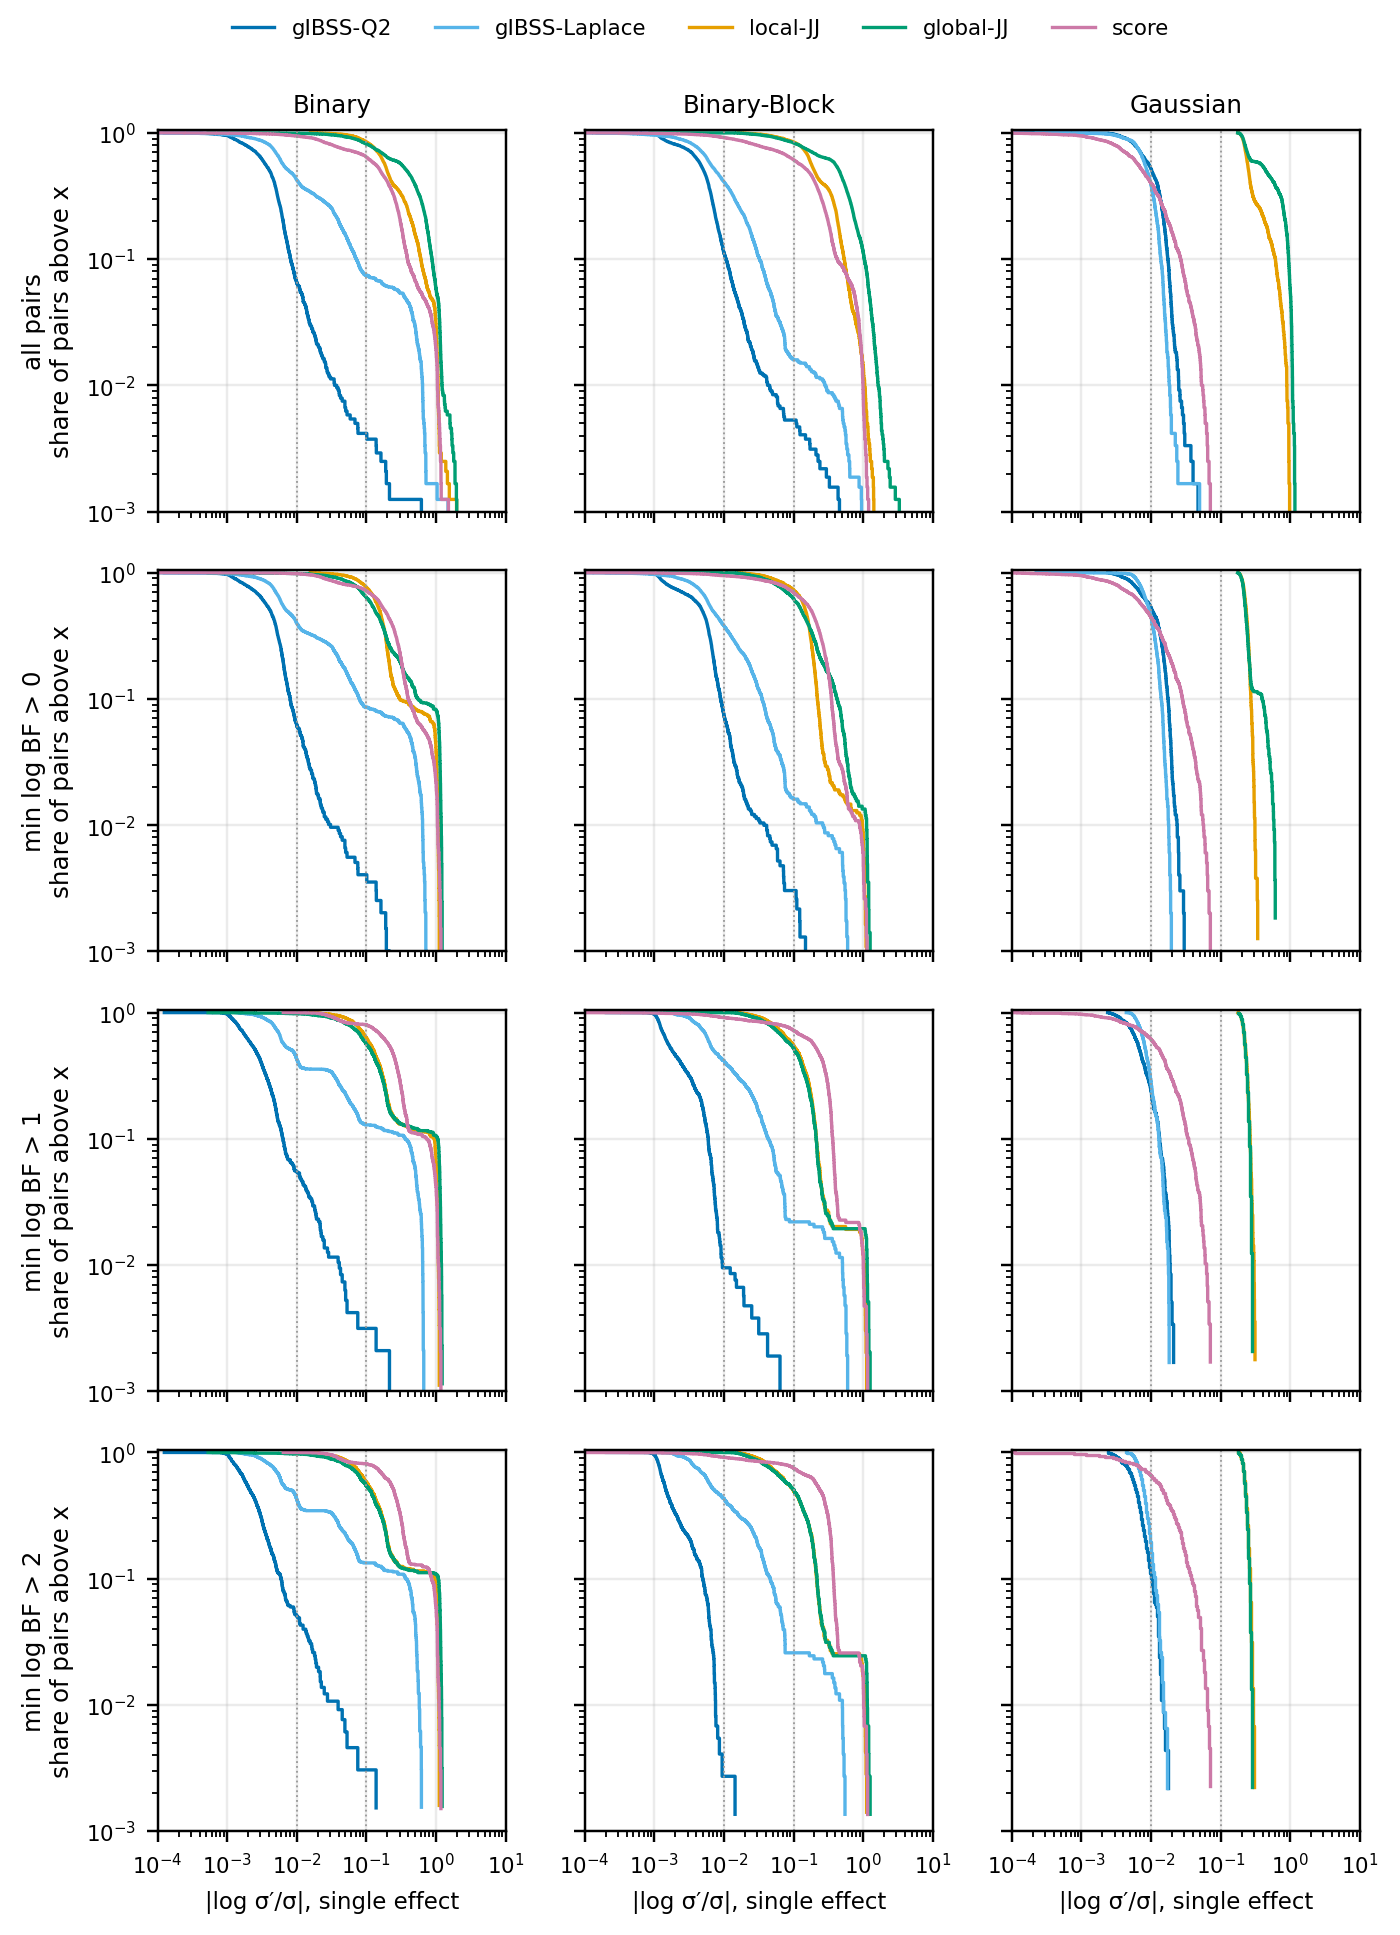
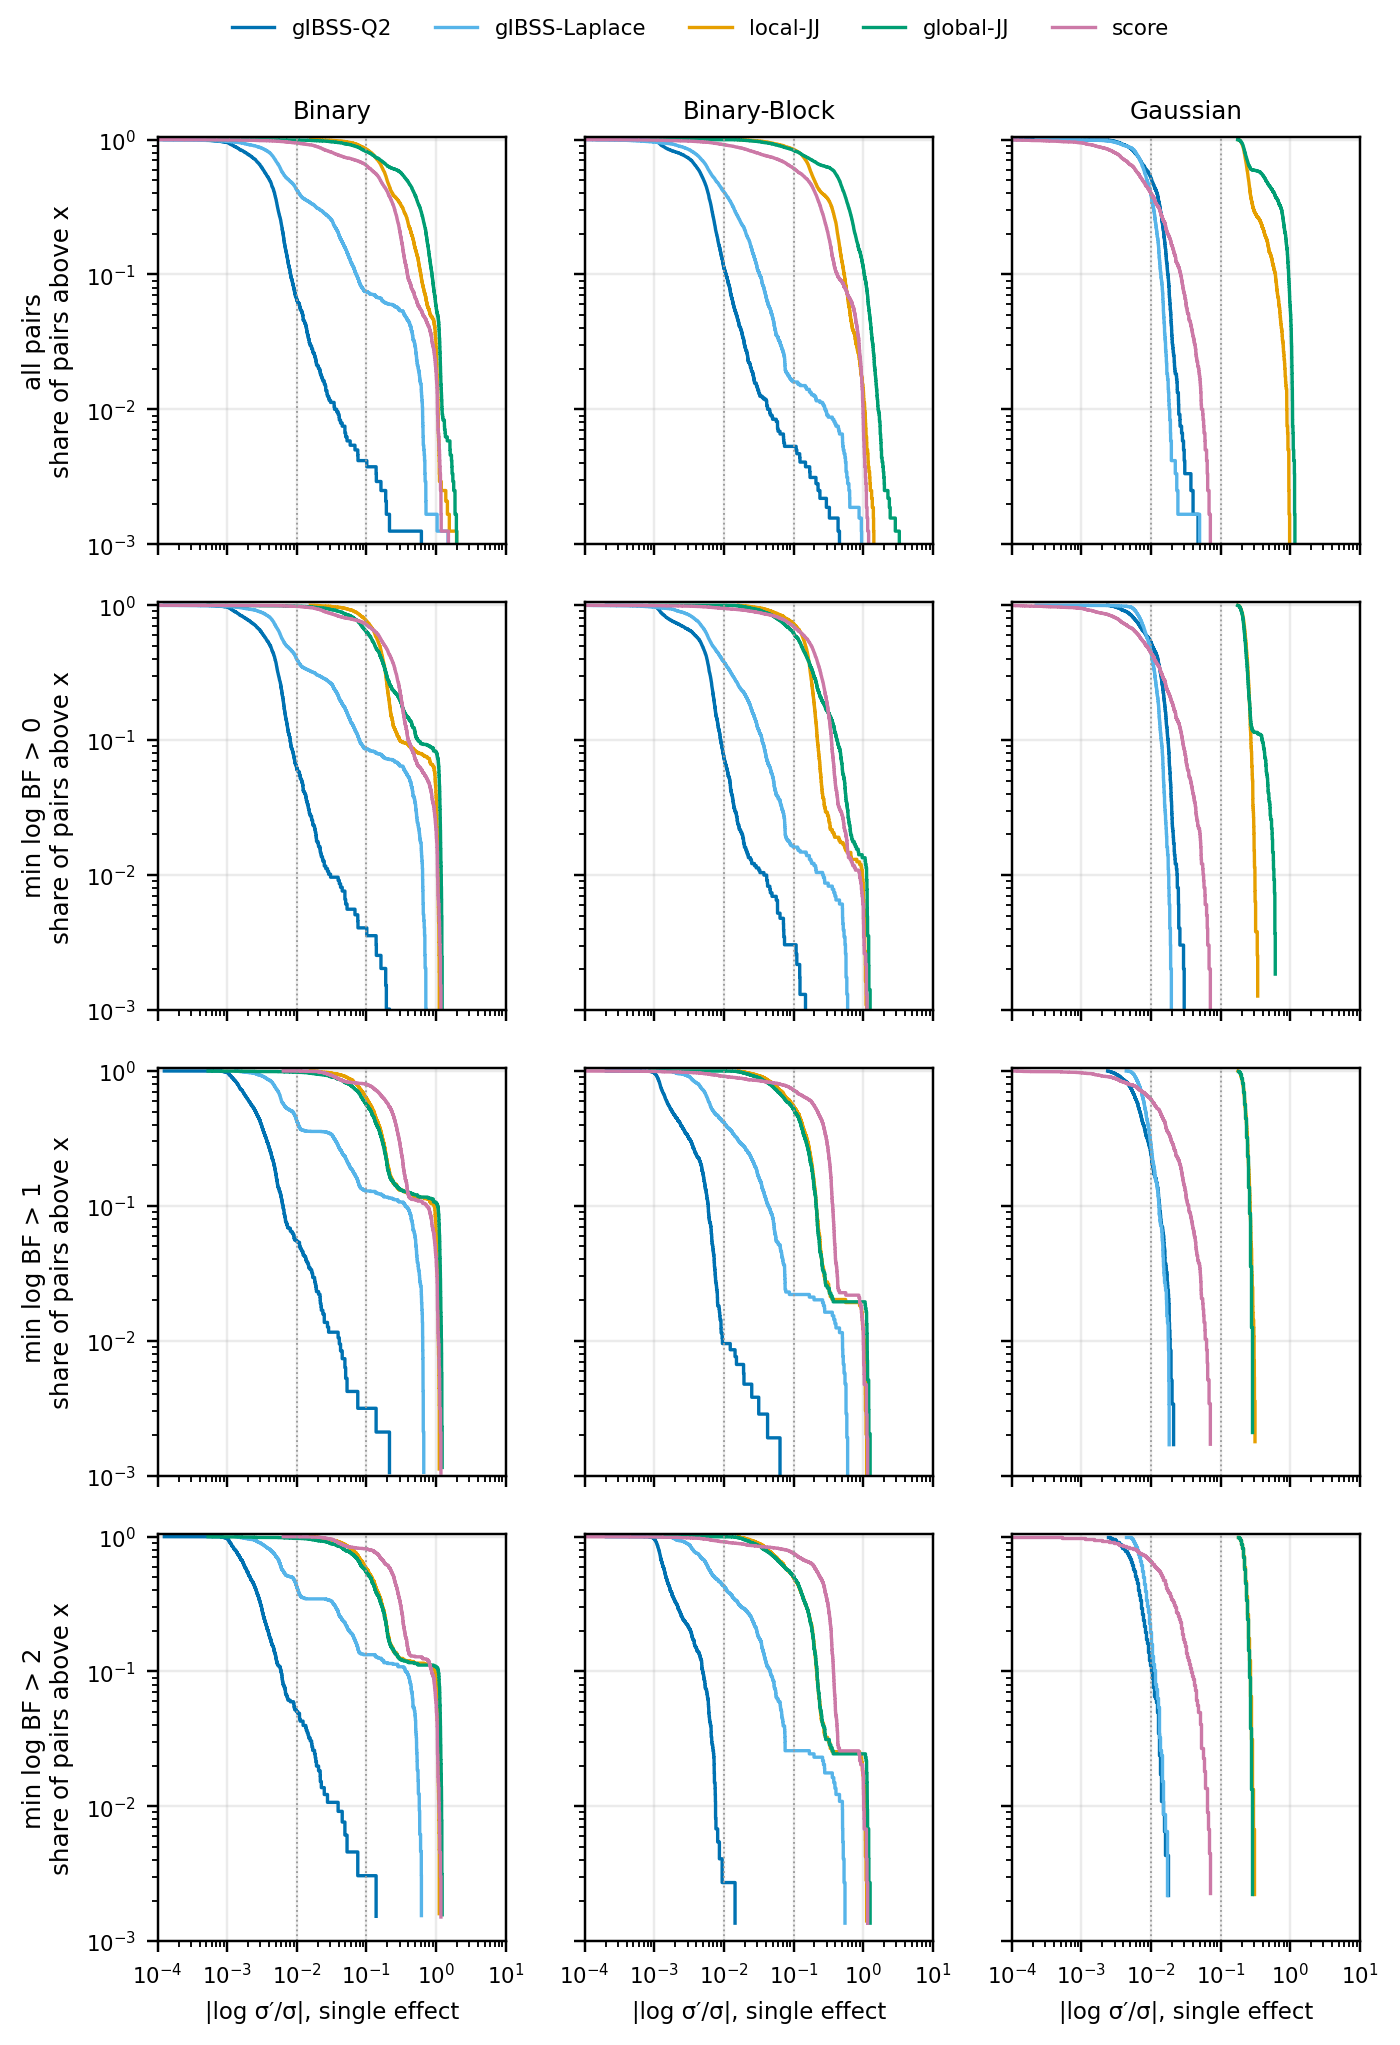
feat(twogroup): pip_agreement figure fixes - full legends, all-pairs figures, 2-metric per-cell figures
Legends now collect every arm drawn in any panel (the L=1 row lacked gIBSS-GO, Taylor2 and
MacKay). Each log-BF-threshold survival figure gets a standalone 1x3 every-pair figure before
it. The per-cell figures keep one distance per half of the single-effect posterior: TV for
alpha and |dmu|/sd for the conditional mean.

diff --git a/twogroup_experiments/analysis/logistic_laplace_simulations/pip_agreement.py b/twogroup_experiments/analysis/logistic_laplace_simulations/pip_agreement.py
@@ -39,9 +39,9 @@ if _TG_ROOT not in sys.path:
     sys.path.insert(0, _TG_ROOT)
 if _HERE not in sys.path:
     sys.path.insert(0, _HERE)
-import laplacelib as R
-
 from experiments import loader
+
+import laplacelib as R
 
 RESULTS = os.path.join(_TG_ROOT, "results")
 # (experiment, L, supercollection). Accuracy, not timing, so the full 022 grids are fine here.
@@ -52,6 +52,8 @@ SOURCES = [
 ]
 ARMS = [m for m in R.METHODS if m != "cavi"]
 METRICS = {"tv": "TV", "kl": "KL", "max_alpha": "max |Δα|"}
+# The per-cell figure: one distance for alpha, one for the conditional effect sizes.
+BY_AXIS_METRICS = {"tv": "TV, alpha", "dmu": "|Δμ| / σ, conditional mean"}
 
 
 def _dist(la: np.ndarray, lb: np.ndarray) -> dict:
@@ -229,14 +231,34 @@ def with_design(df: pl.DataFrame) -> pl.DataFrame:
     return df.with_columns(pl.col("exp").replace_strict(DESIGN).alias("design"))
 
 
-def by_axis_figure(comp: pl.DataFrame, L: int):
-    """Rows = metrics (TV, KL, max |dalpha|), columns = experiments; mean per cell vs the sweep
-    axis with a replicate-bootstrap 95% interval, one line per arm; non-null cells, log y."""
+def figure_legend(fig, axes, rect_bottom: float = 0.0, height: float = 1.0):
+    """One legend above the panels with every arm drawn in ANY panel, in R.METHODS order (an
+    arm missing from the first panel, e.g. an L=5-only arm in an L=1 row, still gets an
+    entry); then tight_layout below it. `height` is the figure height in inches."""
+    handles = {}
+    for ax in axes.flat:
+        for h, lab in zip(*ax.get_legend_handles_labels()):
+            handles.setdefault(lab, h)
+    order = [R.METHOD_LABEL[m] for m in ARMS if R.METHOD_LABEL[m] in handles]
+    ncol = min(len(order), 5) or 1
+    nrow = -(-len(order) // ncol)
+    fig.legend([handles[k] for k in order], order, loc="upper center", ncol=ncol, fontsize=7,
+               frameon=False)
+    fig.tight_layout(rect=(0, rect_bottom, 1, 1 - (0.08 + 0.17 * nrow) / height))
+
+
+def by_axis_figure(comp: pl.DataFrame, L: int, metrics: dict | None = None):
+    """Rows = metrics (default BY_AXIS_METRICS: TV for alpha, |dmu|/sd for the conditional
+    means), columns = experiments; mean per cell vs the sweep axis with a replicate-bootstrap
+    95% interval, one line per arm; non-null cells, log y."""
     import matplotlib.pyplot as plt
     exps = EXPS
-    fig, axes = plt.subplots(3, 3, figsize=(6.5, 6.2), sharex="col", sharey="row")
+    metrics = metrics or BY_AXIS_METRICS
+    height = 0.6 + 2.0 * len(metrics)
+    fig, axes = plt.subplots(len(metrics), 3, figsize=(6.5, height), sharex="col", sharey="row",
+                             squeeze=False)
     sub_l = comp.filter((pl.col("L") == L) & ~pl.col("null"))
-    for i, (metric, label) in enumerate(METRICS.items()):
+    for i, (metric, label) in enumerate(metrics.items()):
         for j, exp in enumerate(exps):
             ax, col = axes[i, j], axis_col(exp)
             sub = sub_l.filter(pl.col("exp") == exp)
@@ -258,17 +280,11 @@ def by_axis_figure(comp: pl.DataFrame, L: int):
             ax.tick_params(labelsize=7)
             if i == 0:
                 ax.set_title(DESIGN[exp], fontsize=8)
-            if i == 2:
+            if i == len(metrics) - 1:
                 ax.set_xlabel(_AXIS_LABEL[exp], fontsize=7.5)
             if j == 0:
                 ax.set_ylabel(label, fontsize=8)
-    handles = {}
-    for ax in axes.flat:
-        for h, lab in zip(*ax.get_legend_handles_labels()):
-            handles.setdefault(lab, h)
-    fig.legend(handles.values(), handles.keys(), loc="upper center", ncol=max(len(handles), 1),
-               fontsize=7, frameon=False)
-    fig.tight_layout(rect=(0, 0, 1, 0.95))
+    figure_legend(fig, axes, height=height)
     return fig
 
 
@@ -338,7 +354,8 @@ def survival_figure(fits: pl.DataFrame, rows=None, xlabel: str = "max |ΔPIP| in
     import matplotlib.pyplot as plt
     exps = EXPS
     rows = rows or [(1, "max_pip", "L = 1"), (5, "max_pip", "L = 5")]
-    fig, axes = plt.subplots(len(rows), 3, figsize=(6.5, 2.2 * len(rows)), sharex=True,
+    height = 0.5 + 2.2 * len(rows)
+    fig, axes = plt.subplots(len(rows), 3, figsize=(6.5, height), sharex=True,
                              sharey=True, squeeze=False)
     for i, row in enumerate(rows):
         L, col, label = row[:3]
@@ -368,9 +385,7 @@ def survival_figure(fits: pl.DataFrame, rows=None, xlabel: str = "max |ΔPIP| in
                 ax.set_xlabel(xlabel, fontsize=7.5)
             if j == 0:
                 ax.set_ylabel(f"{label}\nshare of {unit} above x", fontsize=8)
-    h, lab = axes[0, 0].get_legend_handles_labels()
-    fig.legend(h, lab, loc="upper center", ncol=len(lab), fontsize=7, frameon=False)
-    fig.tight_layout(rect=(0, 0, 1, 1 - 0.1 / len(rows)))
+    figure_legend(fig, axes, height=height)
     return fig
 
 
@@ -382,6 +397,7 @@ def bar_rows(L: int, bars=BARS, col: str = "tv") -> list:
     exceeds each bar (both sides must clear it)."""
     return [(L, col, "all pairs")] + [(L, col, f"min log BF > {t:g}", pl.col("min_log_bf") > t)
                                       for t in bars]
+
 
 def scatter_figure(feat: pl.DataFrame, L: int = 5):
     """Rows = experiments, columns = arms: per-feature PIP, arm vs CAVI-Q2, pooled over
